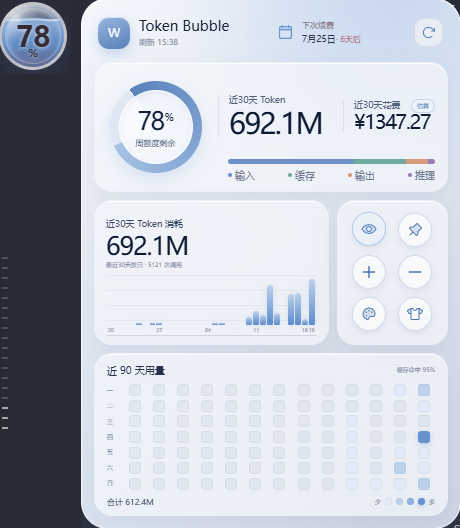
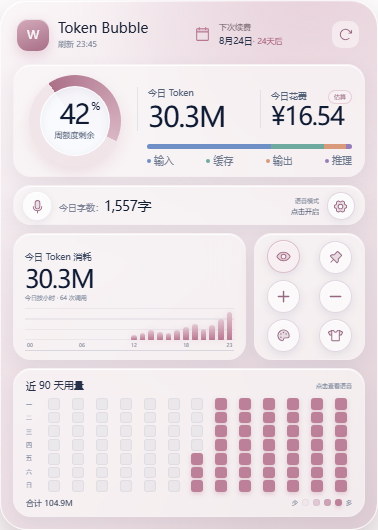
Refresh v0.2.0 interface screenshots

diff --git a/README.en.md b/README.en.md
@@ -14,19 +14,21 @@ Token Bubble is derived from **Quota Float** and integrates **CodexScope** for l
 
 ## Interface preview
 
+All screenshots below are generated directly from the current `v0.2.0` interface.
+
 ### Two panel skins
 
 Token Bubble provides the Soap Bubble skin (Bubble) and the Glass Bottle skin (Glass). The panel and floating widget share the selected skin's material and visual style.
 
 | Soap Bubble skin (Bubble) | Glass Bottle skin (Glass) |
 | --- | --- |
-| ![Token Bubble Bubble skin panel and widget](docs/images/token-bubble-skin-bubble-overview.png) | ![Token Bubble Glass skin panel and widget](docs/images/token-bubble-skin-glass-overview.png) |
+| ![Token Bubble Bubble skin panel and widget](docs/images/token-bubble-skin-bubble-overview.png?v=0.2.0) | ![Token Bubble Glass skin panel and widget](docs/images/token-bubble-skin-glass-overview.png?v=0.2.0) |
 
 ### Custom colors for both skins
 
 Both the Bubble and Glass panels support custom colors. Open the color picker to choose a color from the field, hue bar, or RGB values.
 
-![Token Bubble panel color picker](docs/images/token-bubble-color-picker.png)
+![Token Bubble panel color picker](docs/images/token-bubble-color-picker.png?v=0.2.0)
 
 ### Today, last 7 days, and last 30 days
 
@@ -34,7 +36,7 @@ Switch the usage range between today, the last 7 days, and the last 30 days. The
 
 | Today | Last 7 days | Last 30 days |
 | --- | --- | --- |
-| ![Token Bubble token usage for today](docs/images/token-bubble-skin-bubble-today.png) | ![Token Bubble token usage for the last 7 days](docs/images/token-bubble-skin-bubble-7d.png) | ![Token Bubble token usage for the last 30 days](docs/images/token-bubble-skin-bubble-30d.png) |
+| ![Token Bubble token usage for today](docs/images/token-bubble-skin-bubble-today.png?v=0.2.0) | ![Token Bubble token usage for the last 7 days](docs/images/token-bubble-skin-bubble-7d.png?v=0.2.0) | ![Token Bubble token usage for the last 30 days](docs/images/token-bubble-skin-bubble-30d.png?v=0.2.0) |
 
 ### Floating widget
 
@@ -42,13 +44,13 @@ The floating widget matches the selected Bubble or Glass skin. It can be resized
 
 | Bubble widget | Glass widget |
 | --- | --- |
-| ![Token Bubble Bubble floating widget](docs/images/token-bubble-orb-bubble.png) | ![Token Bubble Glass floating widget](docs/images/token-bubble-orb-glass.png) |
+| ![Token Bubble Bubble floating widget](docs/images/token-bubble-orb-bubble.png?v=0.2.0) | ![Token Bubble Glass floating widget](docs/images/token-bubble-orb-glass.png?v=0.2.0) |
 
 ### Local real-time Chinese-English voice input
 
 Press a configurable shortcut once to start continuous recognition and again to stop. Text appears while you speak, with support for Chinese, English, and mixed speech plus automatic on-device punctuation. The shortcut, microphone, and activation sensitivity are configurable.
 
-![Token Bubble local voice input states](docs/images/token-bubble-voice-states.png)
+![Token Bubble local voice input states](docs/images/token-bubble-voice-states.png?v=0.2.0)
 
 ## Features
 
